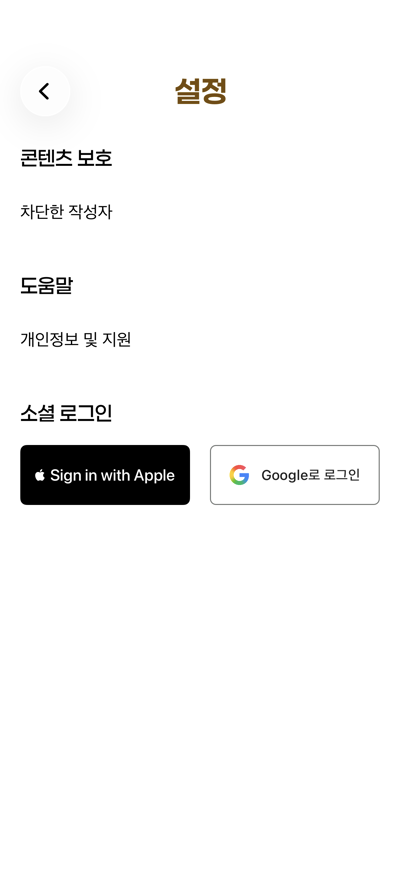
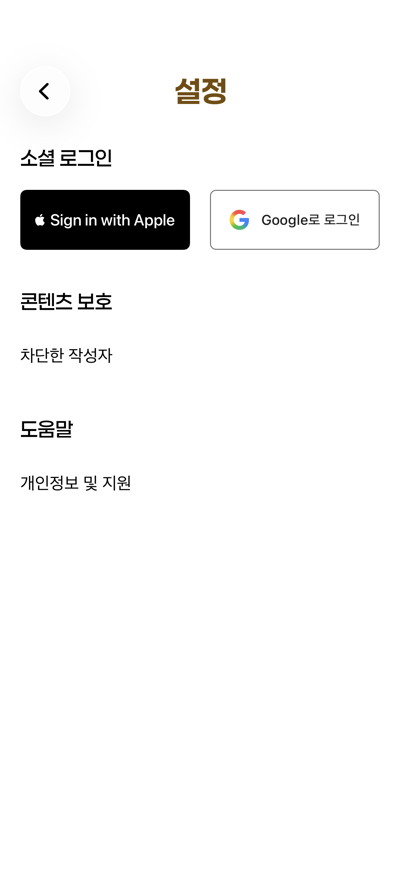
[fix] 설정 토글 동작과 하단 항목 구성 정리

diff --git a/apps/ios/OiDonation/Features/Profile/MYSettingsView.swift b/apps/ios/OiDonation/Features/Profile/MYSettingsView.swift
@@ -22,27 +22,19 @@ struct MYSettingsView: View {
     @State private var showingBlockedAuthors = false
     @State private var showingSupport = false
     @State private var showingAcademicEditor = false
+    @State private var featureUsage = OiFeatureUsage.shared
+    @State private var pendingPermissionToEnable: MYPermission?
     @State private var locationPermission = MYLocationPermission()
     @State private var permissionInFlight: MYPermission?
     @State private var permissionTask: Task<Void, Never>?
     @State private var permissionError: String?
     @State private var permissionValues: [MYPermission: PermissionStatus] = [:]
     @State private var showingOperator = false
-    @State private var farmNameOwner: UUID?
-    @State private var farmNameInput = ""
-    @State private var farmNameError: String?
-    @FocusState private var farmNameFocused: Bool
-
     @State private var confirmingDeletion = false
     @State private var deletionInProgress = false
     @State private var deletionNotice: String?
     @State private var deletionSucceeded = false
     @State private var deletionAppleAuthentication = OiAppleAuthentication()
-
-    private var currentFarmName: String {
-        remote?.profile?.farmName ?? "오이"
-    }
-    private var cleanedFarmName: String { farmNameInput.precomposedStringWithCanonicalMapping.trimmingCharacters(in: .whitespacesAndNewlines) }
 
     private var schoolName: String {
         guard let id = remote?.profile?.schoolId else { return "학교를 선택해 주세요" }
@@ -52,14 +44,6 @@ struct MYSettingsView: View {
     var body: some View {
         ScrollView {
             VStack(alignment: .leading, spacing: 40) {
-                section("콘텐츠 보호") {
-                    Button("차단한 작성자") { showingBlockedAuthors = true }.frame(minHeight: 44)
-                }
-                section("도움말") {
-                    Button("개인정보 및 지원") { showingSupport = true }
-                        .frame(minHeight: 44)
-                        .accessibilityIdentifier("my.settings.support")
-                }
                 section("소셜 로그인") {
                     if let remote {
                         OiSignInView(remote: remote, presentation: .settings)
@@ -81,7 +65,7 @@ struct MYSettingsView: View {
                             }
                         }
                     }
-                    section("권한허용", detail: "최초 요청 · 변경은 iPhone 설정") {
+                    section("권한허용", detail: "권한 허용 후 앱 안에서 켜고 끄기") {
                         if permissionValues.count < MYPermission.allCases.count {
                             ProgressView().accessibilityLabel("기기 권한 확인 중")
                         }
@@ -100,10 +84,16 @@ struct MYSettingsView: View {
                             }.accessibilityIdentifier("my.settings.operator")
                         }
                     }
-                    section("내 농장 이름", detail: "띄어쓰기 포함 6자 이내") {
-                        farmNameRow
-                            .accessibilityIdentifier("my.settings.farm")
-                    }
+                }
+                section("콘텐츠 보호") {
+                    Button("차단한 작성자") { showingBlockedAuthors = true }.frame(minHeight: 44)
+                }
+                section("도움말") {
+                    Button("개인정보 및 지원") { showingSupport = true }
+                        .frame(minHeight: 44)
+                        .accessibilityIdentifier("my.settings.support")
+                }
+                if remote?.account != nil || demo != nil {
                     VStack(alignment: .leading, spacing: 0) {
                         if let remote {
                             Button(role: .destructive) {
@@ -136,9 +126,15 @@ struct MYSettingsView: View {
         .safeAreaInset(edge: .top, spacing: 0) {
             OiSettingsHeader(title: "설정", back: { dismiss() })
         }
-        .task(id: scenePhase) { if scenePhase == .active { await refreshPermissions() } }
+        .task(id: scenePhase) {
+            if scenePhase == .active {
+                await refreshPermissions()
+                completePendingPermission()
+            }
+        }
         .onChange(of: locationPermission.status) { _, status in
             permissionValues[.location] = locationStatus(status)
+            completePendingPermission()
         }
         .onDisappear {
             permissionTask?.cancel()
@@ -155,7 +151,6 @@ struct MYSettingsView: View {
         }
         .onChange(of: remote?.account?.id) { _, _ in
             showingOperator = false
-            resetFarmNameEditor()
             showingAcademicEditor = false
         }
         .confirmationDialog("회원 탈퇴", isPresented: $confirmingDeletion, titleVisibility: .visible) {
@@ -202,67 +197,6 @@ struct MYSettingsView: View {
         }
     }
 
-    @ViewBuilder private var farmNameRow: some View {
-        if let remote, let owner = remote.account?.id, remote.hasLoadedRemote, !remote.needsReauthentication {
-            if farmNameOwner == owner {
-                VStack(alignment: .leading, spacing: 10) {
-                    TextField("농장 이름", text: $farmNameInput)
-                        .font(CampusStyle.semibold(18))
-                        .textInputAutocapitalization(.never)
-                        .submitLabel(.done)
-                        .focused($farmNameFocused)
-                        .onAppear { farmNameFocused = true }
-                        .onSubmit { saveFarmName(remote: remote) }
-                        .accessibilityIdentifier("my.settings.farm.input")
-                    if let farmNameError { Text(farmNameError).font(.footnote).foregroundStyle(.secondary) }
-                    HStack {
-                        Button("취소", role: .cancel, action: resetFarmNameEditor)
-                            .buttonStyle(.bordered)
-                        Button("저장") { saveFarmName(remote: remote) }
-                            .buttonStyle(.borderedProminent)
-                            .tint(CampusStyle.green)
-                            .disabled(cleanedFarmName.isEmpty || cleanedFarmName.unicodeScalars.count > 6)
-                            .accessibilityIdentifier("my.settings.farm.save")
-                    }
-                }
-                .disabled(remote.isBusy)
-                .padding(.horizontal, 20).padding(.vertical, 18)
-                .background(Color(white: 243 / 255), in: RoundedRectangle(cornerRadius: 15))
-            } else {
-                Button {
-                    farmNameInput = currentFarmName
-                    farmNameOwner = owner
-                } label: {
-                    settingsCard(action: "수정") { farmNameLabel }
-                }.accessibilityIdentifier("my.settings.farm.edit")
-            }
-        } else {
-            settingsCard { farmNameLabel }.accessibilityIdentifier("my.settings.farm.edit")
-        }
-    }
-
-    private func saveFarmName(remote: OiRemoteStore) {
-        let value = cleanedFarmName
-        guard let owner = farmNameOwner, remote.account?.id == owner, remote.hasLoadedRemote, !remote.isBusy,
-              !remote.needsReauthentication, !value.isEmpty, value.unicodeScalars.count <= 6 else { return }
-        farmNameError = nil
-        Task {
-            guard remote.account?.id == owner, farmNameOwner == owner, remote.hasLoadedRemote,
-                  !remote.needsReauthentication, !remote.isBusy else { return }
-            await remote.updateFarmName(value)
-            guard remote.account?.id == owner, farmNameOwner == owner else { return }
-            if let error = remote.error { farmNameError = error }
-            else { resetFarmNameEditor() }
-        }
-    }
-
-    private func resetFarmNameEditor() {
-        farmNameFocused = false
-        farmNameOwner = nil
-        farmNameInput = ""
-        farmNameError = nil
-    }
-
     private func section<Content: View>(_ title: String, detail: String? = nil, @ViewBuilder content: () -> Content) -> some View {
         VStack(alignment: .leading, spacing: 20) {
             ViewThatFits(in: .horizontal) {
@@ -279,25 +213,6 @@ struct MYSettingsView: View {
 
     @ViewBuilder private func sectionDetail(_ value: String?) -> some View {
         if let value { Text(value).font(.custom("Paperlogy-3Light", size: 12, relativeTo: .caption)).tracking(0.24).foregroundStyle(CampusStyle.green) }
-    }
-
-    private func profileValue(_ value: String) -> some View {
-        Text(value).font(CampusStyle.semibold(18)).tracking(0.36)
-            .foregroundStyle(CampusStyle.sectionGreen)
-    }
-
-    private var farmNameLabel: some View {
-        ViewThatFits(in: .horizontal) {
-            HStack(alignment: .firstTextBaseline, spacing: 6) {
-                profileValue(currentFarmName)
-                Text("밭").font(CampusStyle.body(18))
-                    .foregroundStyle(Color(red: 139 / 255, green: 98 / 255, blue: 53 / 255))
-            }
-            Text(currentFarmName + " 밭").font(CampusStyle.semibold(18))
-                .foregroundStyle(CampusStyle.sectionGreen)
-                .fixedSize(horizontal: false, vertical: true)
-        }
-        .accessibilityElement(children: .combine)
     }
 
     @ViewBuilder private var schoolRow: some View {
@@ -353,19 +268,19 @@ struct MYSettingsView: View {
                 HStack(spacing: 12) {
                     VStack(alignment: .leading, spacing: 3) {
                         permissionTitle(permission.title)
-                        Text(status?.label ?? "확인 중")
+                        Text(permissionLabel(permission, status: status))
                             .font(CampusStyle.body(12)).foregroundStyle(.secondary)
                     }
                     Spacer(minLength: 8)
-                    permissionIndicator(status)
+                    permissionIndicator(status, feature: permission)
                 }
                 VStack(alignment: .leading, spacing: 8) {
                     VStack(alignment: .leading, spacing: 3) {
                         permissionTitle(permission.title)
-                        Text(status?.label ?? "확인 중")
+                        Text(permissionLabel(permission, status: status))
                             .font(CampusStyle.body(12)).foregroundStyle(.secondary)
                     }
-                    permissionIndicator(status)
+                    permissionIndicator(status, feature: permission)
                 }
             }
             .padding(.horizontal, 20)
@@ -373,10 +288,22 @@ struct MYSettingsView: View {
             .contentShape(Rectangle())
         }
         .accessibilityLabel(permission.title)
-        .accessibilityValue(status?.label ?? "")
-        .accessibilityHint(status?.canRequest == true ? "시스템 권한 허용 요청" : "iPhone 설정에서 변경")
+        .accessibilityValue(permissionLabel(permission, status: status))
+        .accessibilityHint(status?.isGranted == true ? "앱 안에서 기능 사용 켜기 또는 끄기" : "iPhone 권한 허용 필요")
         .accessibilityIdentifier("my.settings.permission.\(permission)")
         .disabled(status == nil || permissionInFlight != nil)
+    }
+
+    private func permissionLabel(_ feature: MYPermission, status: PermissionStatus?) -> String {
+        guard let status else { return "확인 중" }
+        guard status.isGranted == true else { return status.label }
+        return featureUsage.isEnabled(feature) ? "앱에서 사용 중" : "앱에서 사용 안 함"
+    }
+
+    private func completePendingPermission() {
+        guard let feature = pendingPermissionToEnable, permissionValues[feature]?.isGranted == true else { return }
+        featureUsage.setEnabled(true, for: feature)
+        pendingPermissionToEnable = nil
     }
 
     private func permissionTitle(_ title: String) -> some View {
@@ -384,11 +311,12 @@ struct MYSettingsView: View {
             .tracking(0.32).foregroundStyle(.black)
     }
 
-    private func permissionIndicator(_ status: PermissionStatus?) -> some View {
+    private func permissionIndicator(_ status: PermissionStatus?, feature: MYPermission) -> some View {
         ZStack {
             if let isGranted = status?.isGranted {
-                Capsule().fill(isGranted ? CampusStyle.green : Color(uiColor: .tertiaryLabel))
-                    .overlay(alignment: isGranted ? .trailing : .leading) {
+                let isOn = isGranted && featureUsage.isEnabled(feature)
+                Capsule().fill(isOn ? CampusStyle.green : Color(uiColor: .tertiaryLabel))
+                    .overlay(alignment: isOn ? .trailing : .leading) {
                         Capsule().fill(.white).frame(width: 38, height: 24).padding(.horizontal, 2)
                     }
             }
@@ -452,6 +380,12 @@ struct MYSettingsView: View {
         defer { permissionInFlight = nil }
         await refreshPermissions()
         guard !Task.isCancelled, let status = permissionValues[permission] else { return }
+        if status.isGranted == true {
+            pendingPermissionToEnable = nil
+            featureUsage.setEnabled(!featureUsage.isEnabled(permission), for: permission)
+            return
+        }
+        pendingPermissionToEnable = permission
         guard status.canRequest else { openAppSettings(); return }
         if permission == .location {
             locationPermission.request()
@@ -467,6 +401,7 @@ struct MYSettingsView: View {
         }
         guard !Task.isCancelled else { return }
         await refreshPermissions()
+        completePendingPermission()
     }
 
     private func openAppSettings() {
@@ -524,18 +459,7 @@ private struct SettingsBackMaterial: ViewModifier {
     }
 }
 
-private enum MYPermission: CaseIterable, Hashable {
-    case notifications, location, camera, photos
-
-    var title: String {
-        switch self {
-        case .notifications: "알림"
-        case .location: "위치 정보"
-        case .camera: "카메라 접근"
-        case .photos: "사진 저장"
-        }
-    }
-}
+private typealias MYPermission = OiAppFeature
 
 #Preview("Settings · Reference", traits: .fixedLayout(width: 402, height: 874)) {
     NavigationStack { MYSettingsView(remote: OiRemoteStore()) }

diff --git a/apps/ios/docs/verification/my-v4-379/README.md b/apps/ios/docs/verification/my-v4-379/README.md
@@ -163,3 +163,36 @@ DEVELOPER_DIR=/Applications/Xcode.app/Contents/Developer xcodebuild \
 ```
 
 결과: 빌드 성공, **3 tests, 0 failures / TEST SUCCEEDED**. 중복 인증 요청, 취소 시 기존 계정 보존, 취소 이후 도착한 성공 응답 차단을 검증했다. 실제 Google 웹 인증 완료는 실행하지 않았다. 전용 시뮬레이터는 검증 후 삭제했고 빌드 프로세스 종료를 확인했다. 동시 자원 최대 2그룹, 유지한 실행 자원 없음.
+
+## 설정 구성과 앱 내부 사용 토글 — 최종 사용자 결정
+
+`내 농장 이름`과 전용 편집 상태를 제거했다. `콘텐츠 보호`·`도움말`은 로그아웃·회원 탈퇴 바로 위로 이동했고, 로그인 전에도 도움말은 유지했다.
+
+권한이 이미 허용된 경우 토글은 **기기별 앱 내부 사용 설정**을 즉시 변경한다. iPhone 설정을 열지 않는다. 시스템 권한이 미허용인 경우에만 최초 시스템 요청/설정 이동을 수행한다. 이전 절의 “허용 후에는 설정에서 변경” 설명은 이 결정으로 대체한다.
+
+- 사용 선택을 UserDefaults에 저장하고 앱 재시작 후 복원한다. OS 권한과 로컬 사용 설정이 모두 허용될 때만 ON으로 표시한다.
+- 위치 OFF: 지도 현재 위치, 포항시 경계 확인, AR 위치 추적을 차단하고 진행 중인 작업과 늦은 결과도 중단한다.
+- 카메라 OFF: AR 세션·녹화/타이머·학교 자료 촬영을 중단하고 새 촬영 진입을 차단한다.
+- 사진 저장 OFF: 저장 서비스에서 권한 요청 전후 사용 설정을 검사하므로 사진/영상/카드 저장이 차단된다. 시스템 사진 선택기의 선택 접근은 사진 저장과 별개다.
+- 알림 OFF: 예약·표시 알림 정리 및 원격 알림 등록 해제, 재실행 시 적용. 현재 앱에는 알림 예약/푸시 등록·발송 경로가 없으므로 새 발송 기능은 추가하지 않았다.
+
+기능 OFF 상태에서 실제 위치·AR·사진 저장 서비스를 호출해 시스템 요청 전에 차단되는지 검사했고, 저장/재생성/ON 복원과 다른 기능의 독립성도 검사했다. 전용 시뮬레이터 `88A5A3CA-ACB1-470A-BC6E-D91E79E71235`를 사용했다.
+
+```sh
+DEVELOPER_DIR=/Applications/Xcode.app/Contents/Developer xcodebuild \
+  -project apps/ios/OiDonation.xcodeproj -scheme OiFlowChecks -configuration Debug \
+  -destination 'platform=iOS Simulator,id=88A5A3CA-ACB1-470A-BC6E-D91E79E71235' \
+  -derivedDataPath /private/tmp/benchmark-my-v4-379-evidence/build \
+  -resultBundlePath /private/tmp/benchmark-my-v4-379-evidence/feature-usage-final.xcresult \
+  CODE_SIGNING_ALLOWED=NO -parallel-testing-enabled NO \
+  -only-testing:OiDonationTests/OiRemoteStoreTests/testFeatureUsagePersistsWithoutChangingOtherFeatures \
+  -only-testing:OiDonationTests/OiRemoteStoreTests/testDisabledFeaturesBlockLocationCameraAndPhotoStorage \
+  -only-testing:OiDonationTests/OiFigmaFidelityVisualTests/testMYSettingsCapturesWithOfflineAccounts test
+
+DEVELOPER_DIR=/Applications/Xcode.app/Contents/Developer \
+SWIFT_MODULECACHE_PATH=/private/tmp/benchmark-my-v4-379-evidence/modulecache \
+CLANG_MODULE_CACHE_PATH=/private/tmp/benchmark-my-v4-379-evidence/modulecache \
+sh apps/ios/Tests/run-campus-card-location-checks.sh
+```
+
+결과: 화면 포함 3개 검사 통과. 늦은 위치 결과 차단 보완 후에는 위 명령에서 화면 검사 선택을 제외하고 resultBundlePath를 `feature-usage-reviewed.xcresult`로 바꿔 2개 기능 검사를 재실행하여 통과했다. 포항시 경계·거리 정확도·오래된 위치 검사도 PASS. 실제 iPhone의 권한 팝업·GPS·카메라 녹화·사진 저장 및 알림 수신은 별도 실기기 확인이 남아 있다.

diff --git a/docs/architecture.md b/docs/architecture.md
@@ -733,3 +733,12 @@ AR 게임 시작 시 정규화된 캐릭터를 한 번 로드하여 카메라와
 2026-11-13 #310: `OiOperatorNFCTagsView`가 운영자 관리의 NFC 태그 메뉴에서 목록·추가·수정을 제공한다. `OiRemoteStore`의 운영자 세션 재확인을 거쳐 기존 RPC만 호출하고, 응답 영수증이 요청과 일치할 때만 저장으로 처리한다. 서버 스키마 변경은 없다.
 
 2026-11-15 #351: App Clip 타깃에서 `Views/ARGame/*`, `AppClipStoryCardView`, `ARCollectionResultView`, 체험 화면(`OiSample*View`)과 `ARCollectionAssets`·`OiSampleAssets`, `Paperlogy-2ExtraLight`를 제외한다. 파일은 본 앱이 계속 사용하므로 삭제하지 않고 타깃 멤버십만 바꾼다. 이야기 상세의 카드 미리보기는 `AppClipCardPreview.swift`로 분리해 두 타깃이 공유한다. 공유 `AppClipExperienceView`는 AR 진입 없이 읽기 전용 이야기 상세를 표시한다. Release 기준 App Clip 번들은 약 16.3MB에서 8.9MB(축소 전)로 줄었다.
+
+
+### 2026-11-16 적용: 앱 내부 기능 사용 설정 (#379)
+
+- 사용자 확정 범위: 시스템 권한과 별개로 이 기기의 알림·위치·카메라·사진 저장 사용 여부를 유지한다.
+- `OiFeatureUsage`는 UserDefaults 기반 선택을 보관하고 변경을 관찰 가능 상태 및 NotificationCenter로 전달한다. 별도 선택 전에는 기존 동작을 유지한다.
+- 설정 토글은 시스템 권한 허용 후 로컬 사용 여부만 변경한다. 위치/AR 서비스는 OFF 이벤트에서 진행 중인 작업을 중단하고 새 작업 진입도 차단한다. 사진 저장 서비스는 권한 요청 전후 사용 설정을 확인한다.
+- 알림 OFF는 예약·표시 알림을 정리하고 원격 알림 등록을 해제한다. 현재 앱에는 알림 예약/푸시 등록·발송 경로가 없으며 신규 발송 기능은 범위에 포함하지 않는다.
+- 인증 계정/프로필/서버 권한을 변경하지 않으며, 앱 내부 OFF로 iOS 시스템 권한을 해제하지 않는다.

diff --git a/project.md b/project.md
@@ -61,6 +61,8 @@
 - 프로필에는 공개용 이름·학번·학과만 사용하고, 비공개 학교 자료 입력값을 대체값으로 사용하지 않는다. 공개 이름이 없으면 기존 농장 이름을 표시한다.
 
 - 2026-11-16 후속 확정: 설정의 Google·Apple 로그인 버튼은 해당 제공자의 인증을 바로 시작한다. 로그인 방법 추가 화면으로 우회하지 않고, 추가 연동을 자동 수행하지 않는다. 기존 계정은 인증 성공 전까지 유지한다.
+- 같은 날 설정 구성 확정: `내 농장 이름` 편집 항목을 제거하고 `콘텐츠 보호`·`도움말`을 로그아웃·회원 탈퇴 바로 위로 이동한다. 저장된 농장 이름 데이터는 유지한다.
+- 같은 날 권한 토글 최종 확정: iOS 권한이 허용돼 있으면 앱 내부 기능 사용을 켜고 끈다. 선택은 기기에 저장하며 OFF 시 위치 추적·카메라·사진 저장을 실제로 중단/차단한다. 시스템 권한 자체는 유지한다. 권한 미허용 상태에서만 최초 시스템 요청 또는 iPhone 설정 안내를 수행한다. 알림 OFF는 예약·표시 알림 정리 및 원격 알림 등록 해제를 수행하며, 새 알림 발송 기능을 추가하지 않는다.
 
 ## 4. 핵심 사용자 흐름
 
